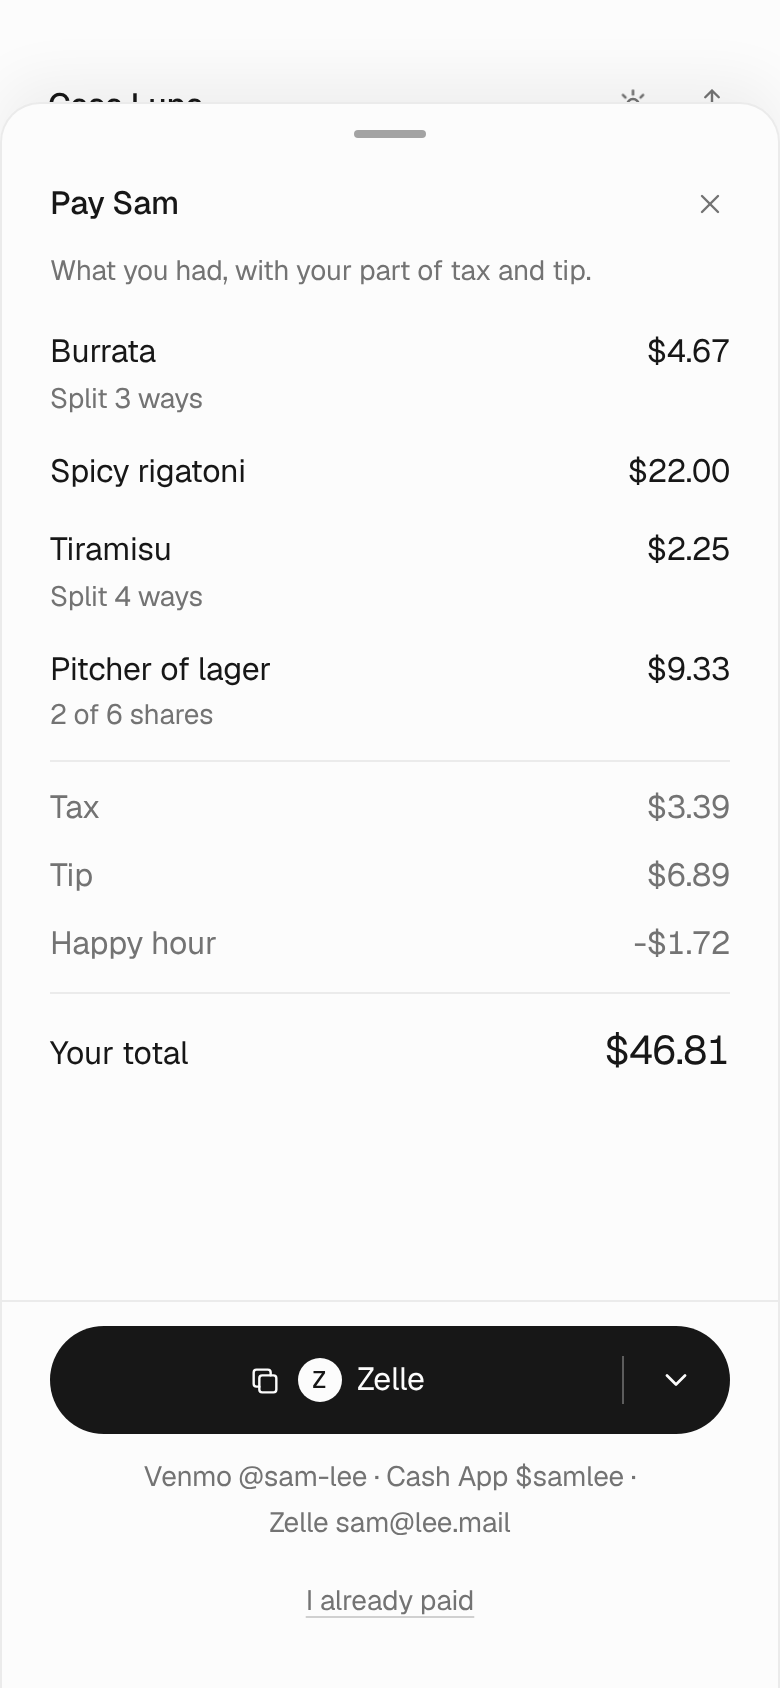
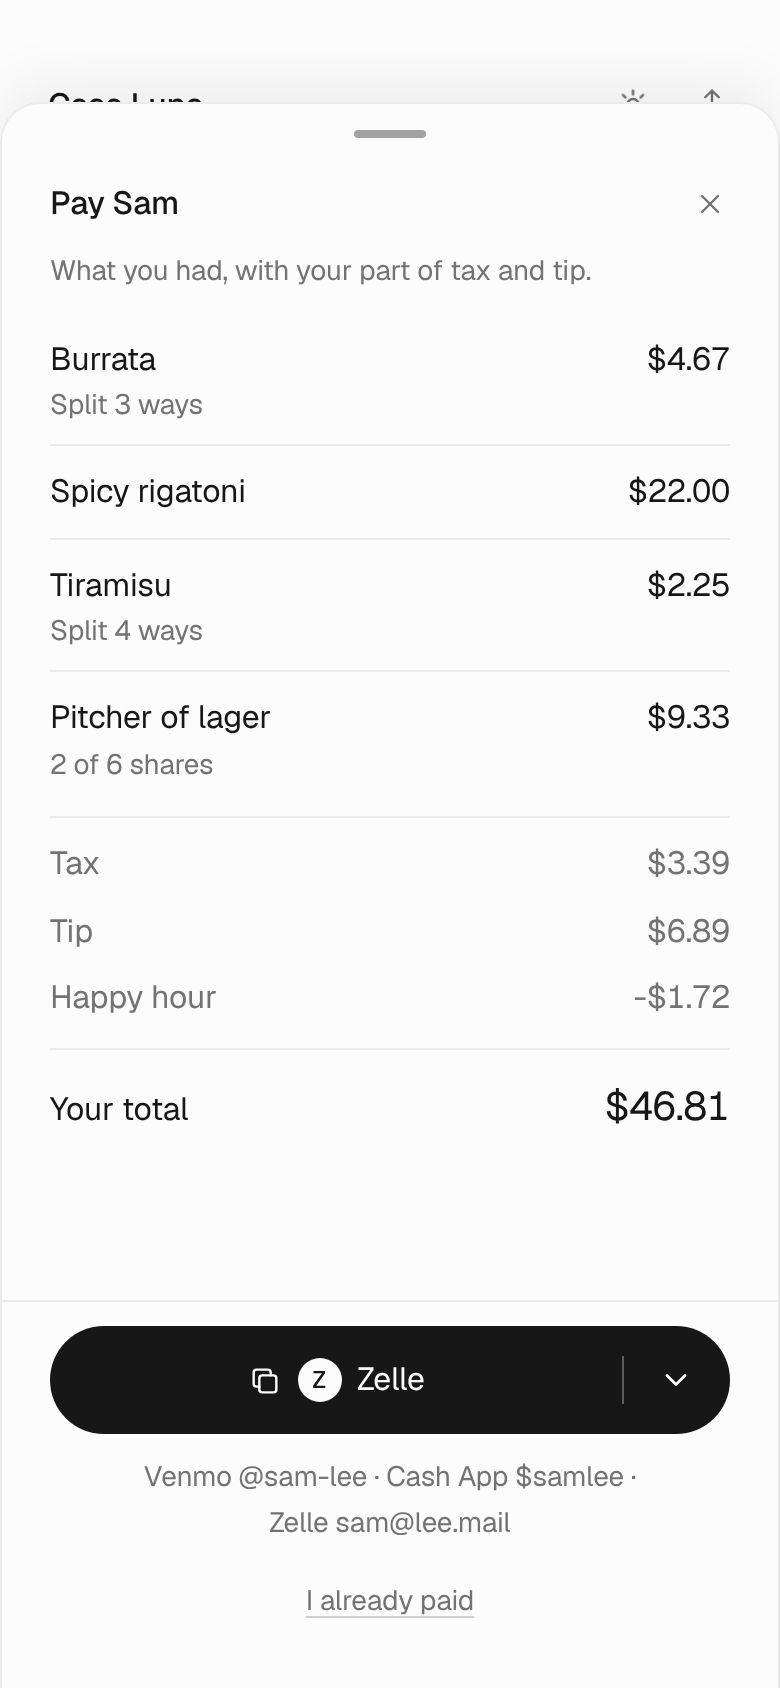
docs(design): add hairlines between Items in the B2 Pay sheet
Claude-Session: https://claude.ai/code/session_016x8VAK4vSURmZ58jd7QJKC

diff --git a/docs/design/b2/split.dc.html b/docs/design/b2/split.dc.html
@@ -103,6 +103,8 @@ body{margin:0}
 .b-pline{display:flex;justify-content:space-between;align-items:baseline;gap:16px;padding:7px 0;font-variant-numeric:tabular-nums}
 .b-pline > span:first-child{min-width:0}
 .b-pnote{display:block;font-size:14px;line-height:20px;color:var(--muted)}
+.b-pitems .b-pline{padding:10px 0}
+.b-pitems .b-pline + .b-pline{border-top:1px solid var(--line)}
 .b-pcharges{margin-top:6px;padding-top:6px;border-top:1px solid var(--line);color:var(--muted)}
 .b-pcharges .b-pline{padding:4px 0}
 .b-ptotal{display:flex;justify-content:space-between;align-items:baseline;margin-top:8px;padding-top:12px;border-top:1px solid var(--line);font-variant-numeric:tabular-nums}
@@ -303,7 +305,7 @@ body{margin:0}
 <button class="b-x" data-anim aria-label="Close" onClick="{{closePay}}"><svg class="ai ai-x" width="16" height="16" viewBox="0 0 24 24" fill="none" stroke="currentColor" stroke-width="1.8" stroke-linecap="round" stroke-linejoin="round" aria-hidden="true"><path pathLength="1" d="M6 6l12 12"></path><path pathLength="1" d="M18 6 6 18"></path></svg></button>
 </div>
 <p style="margin: 2px 0 10px; font-size: 14px; color: var(--muted)">{{pay.sub}}</p>
-<div>
+<div class="b-pitems">
 <sc-for list="{{pay.items}}" as="r" hint-placeholder-count="3">
 <div class="b-pline"><span>{{r.name}}<sc-if value="{{r.hasNote}}" hint-placeholder-val="{{true}}"><span class="b-pnote">{{r.note}}</span></sc-if></span><span>{{r.amount}}</span></div>
 </sc-for>

diff --git a/docs/design/b2/README.md b/docs/design/b2/README.md
@@ -33,7 +33,7 @@ The operator made these calls while iterating. They win over older design docs a
 16. Payments sheet: a monochrome ring with round caps. The selected person's arc is black, the rest gray. Tapping a row selects that person. The ring draws in, one arc after another, when the sheet opens. "Paid" rows read "✓ Paid" in green.
 17. History sheet: every change with an underlined Revert (or Restore) link and an animated undo arrow. The arrow swings back, then the row settles to a gray "✓ Reverted".
 
-25. Pay sheet (operator, 2026-10-14): "Pay Sam" opens a sheet with the person's Items and their part of each, their part of tax, tip and discounts, and their total, all in regular weight. Below it sits the original pay pill: one black pill with the app mark and name, and a chevron end set off by a hairline that switches the app (a native select). Zelle shows a copy icon, copies the handle and says "Copied". The handles are listed in gray under the pill, then "I already paid". The pill and "I already paid" stay fixed at the bottom of the sheet. Marking paid closes the sheet, shows an undo bar, and turns the footer pill into a green "✓ Paid". Tapping it again shows "You paid $X" with "Mark as not paid". Screens `split-17` to `split-21`.
+25. Pay sheet (operator, 2026-10-14): "Pay Sam" opens a sheet with the person's Items and their part of each, with a gray hairline between Items, then their part of tax, tip and discounts, and their total, all in regular weight. Below it sits the original pay pill: one black pill with the app mark and name, and a chevron end set off by a hairline that switches the app (a native select). Zelle shows a copy icon, copies the handle and says "Copied". The handles are listed in gray under the pill, then "I already paid". The pill and "I already paid" stay fixed at the bottom of the sheet. Marking paid closes the sheet, shows an undo bar, and turns the footer pill into a green "✓ Paid". Tapping it again shows "You paid $X" with "Mark as not paid". Screens `split-17` to `split-21`.
 
 ### Home
 
